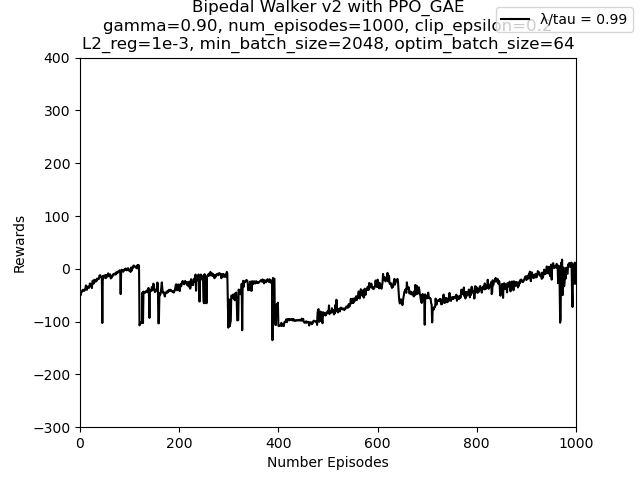
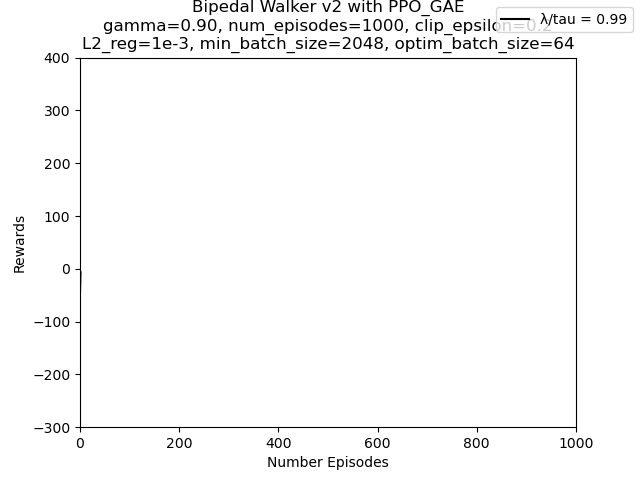
minor change

Changed region(s): [[0.125, 0.5312, 0.9062, 0.7188]]

diff --git a/src/algorithms/a2c_algorithm/a2c_main.py b/src/algorithms/a2c_algorithm/a2c_main.py
@@ -36,7 +36,7 @@ os.environ["KMP_DUPLICATE_LIB_OK"] = "TRUE"
 L2_REG = 1e-3
 GAMMA = 0.99  # discount factor
 MAX_NUM_ITER = 1000  # 5000
-RENDER = False  # True
+RENDER = True  # True
 MIN_BATCH_SIZE = 2048
 LOG_INTERVAL = 1  # print out rate
 SAVE_MODEL_INTERVAL = 100
@@ -66,13 +66,13 @@ env.seed(1)
 
 # define actor network, critic network
 # comment out these two line below if you decided to test the train model line
-policy_net = Policy(state_dim, env.action_space.shape[0], log_std=-1.0)
-value_net = Value(state_dim)
+# policy_net = Policy(state_dim, env.action_space.shape[0], log_std=-1.0)
+# value_net = Value(state_dim)
 
 # test trained model by loading actor network, critic network, and running state
-# policy_net, value_net, running_state = pickle.load(
-#     open("assets/learned_models/a2c_algorithm/bipedal_walker_v2_a2c_cpu.p", "rb")
-# )
+policy_net, value_net, running_state = pickle.load(
+    open("assets/learned_models/a2c_algorithm/bipedal_walker_v2_a2c_cpu.p", "rb")
+)
 
 policy_net.to(device)
 value_net.to(device)

diff --git a/src/algorithms/ppo_algorithm/ppo_main.py b/src/algorithms/ppo_algorithm/ppo_main.py
@@ -34,7 +34,7 @@ os.environ["KMP_DUPLICATE_LIB_OK"] = "TRUE"
 L2_REG = 1e-3
 GAMMA = 0.99
 MAX_NUM_ITER = 1000  # number of epoch
-RENDER = True
+RENDER = False
 MIN_BATCH_SIZE = 2048  # mini batch size
 LOG_INTERVAL = 1
 SAVE_MODEL_INTERVAL = 100
@@ -69,11 +69,11 @@ env.seed(1)
 
 # define actor and critic network
 # comment out these two line below if you decided to test the train model line
-# policy_net = Policy(state_dim, env.action_space.shape[0], log_std=-1.0)
-# value_net = Value(state_dim)
+policy_net = Policy(state_dim, env.action_space.shape[0], log_std=-1.0)
+value_net = Value(state_dim)
 
 # test trained model
-policy_net, value_net, running_state = pickle.load(open("assets/learned_models/ppo_algorithm/bipedal_walker_v2_ppo_cpu.p", "rb"))
+# policy_net, value_net, running_state = pickle.load(open("assets/learned_models/ppo_algorithm/bipedal_walker_v2_ppo_cpu.p", "rb"))
 
 policy_net.to(device)
 value_net.to(device)

diff --git a/src/main.py b/src/main.py
@@ -13,10 +13,10 @@ def main():
     # q_learning_main()
 
     # train a2c gae
-    # a2c_main()
+    a2c_main()
 
     # train ppo gae
-    ppo_main()
+    # ppo_main()
 
 
 if __name__ == "__main__":
